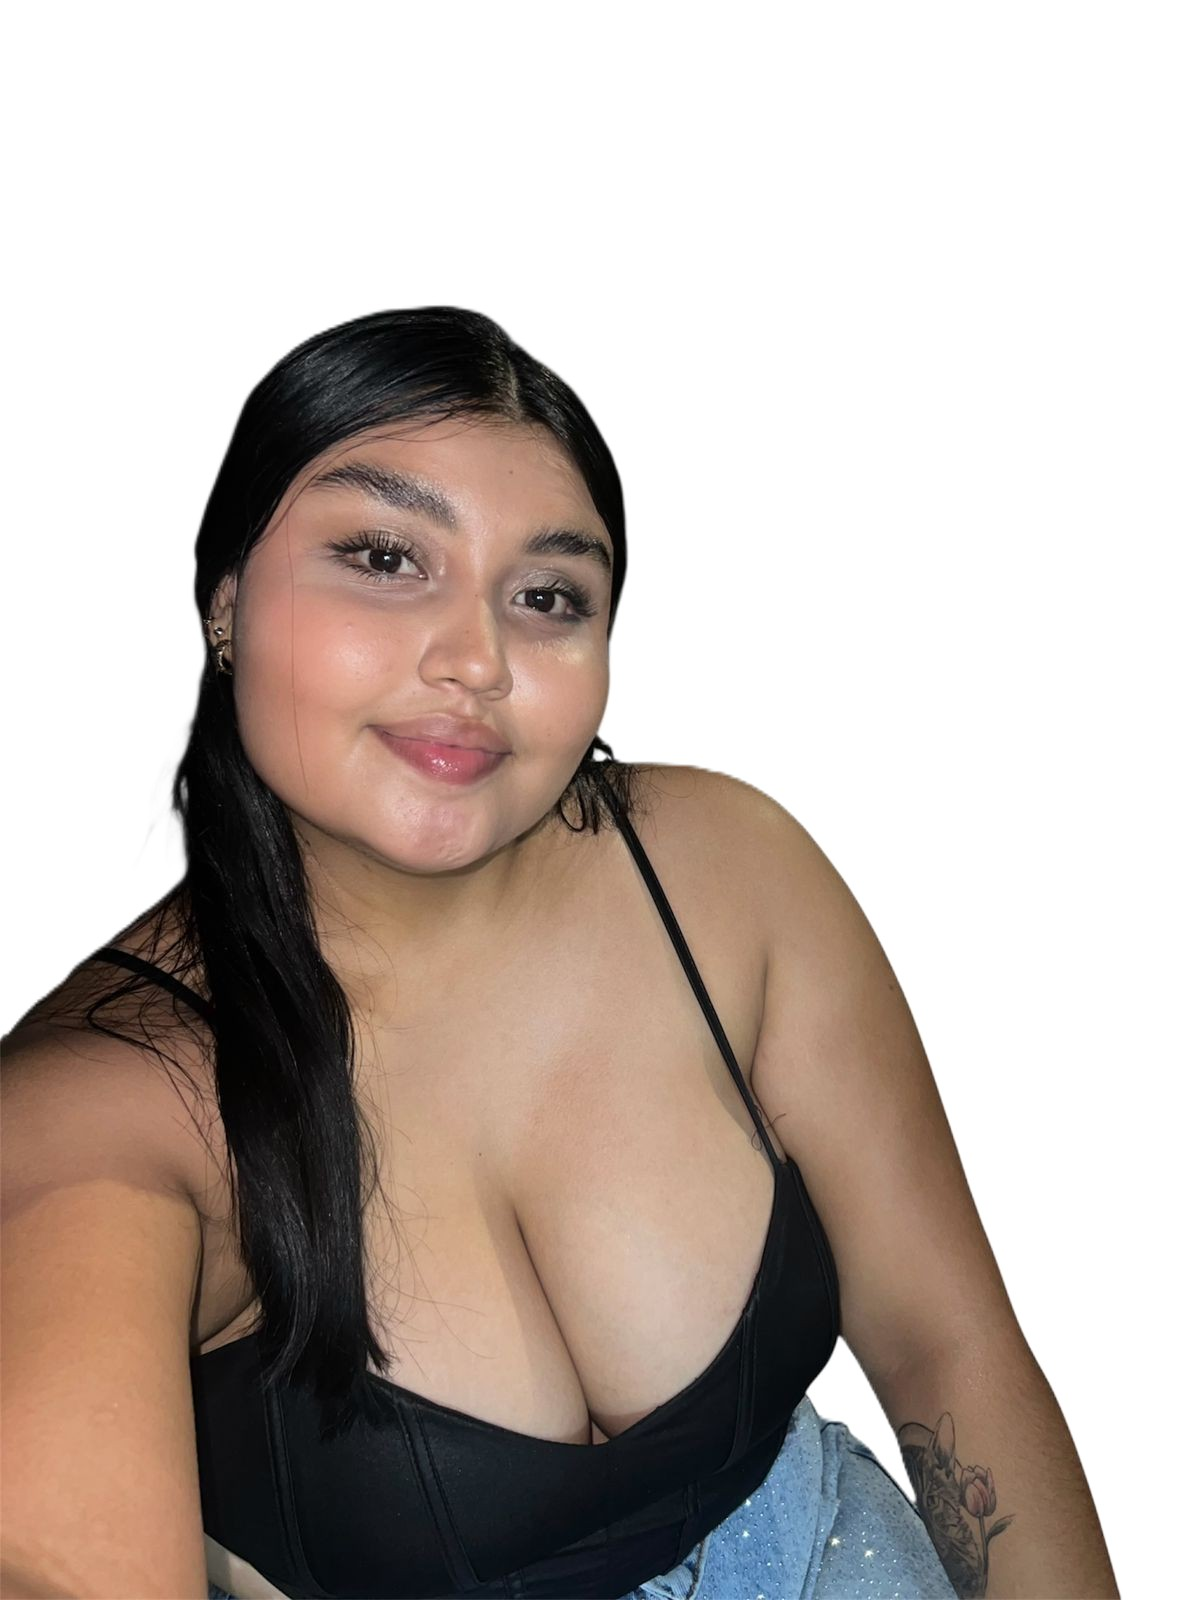
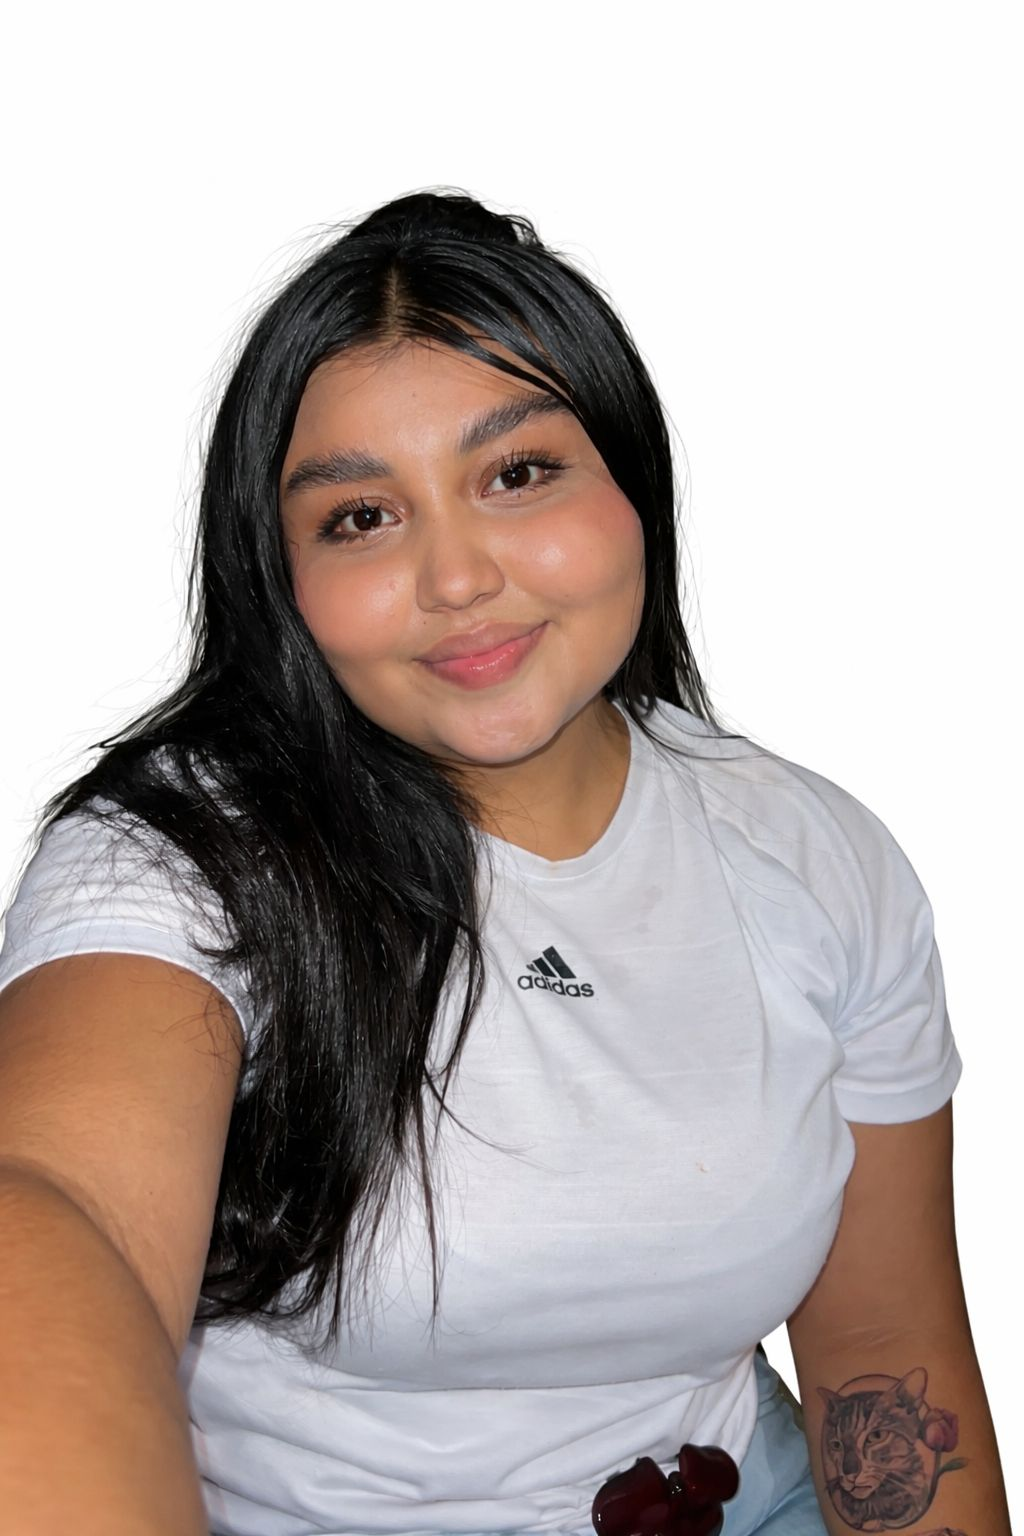
se hace cambio en la imagenes de portafolio

diff --git a/index.html b/index.html
@@ -10,14 +10,14 @@
 <body>
     <header>
         <h1>Mi Portafolio Personal</h1>
-        <p>Bienvenido a mi Portafolio Personal</p>
+        <p>Bienvenido a mi Portafolio Digital.</p>
     </header>
 
     <section id="descripcion">
         <div class="texto">
             <h2>Descripción</h2>
-            <p>Hola, soy Katherine. Mi nombre completo es Wendy Katherine Gualdron Marquez.
-            Soy de Yopal - Casanare. Actualmente tengo 17 años, estudio en el Centro Agroindustrial de Formación Empresarial del Casanare CAFEC, que es parte de las intalaciones del SENA, en donde estoy aprendiendo Análisis y Desarrollo de Software.</p>
+            <p>Hola, soy Katherine. 
+                Mi nombre completo es Wendy Katherine Gualdrón Marquez,soy de Yopal-Casanare,actualmente tengo 17 años, estudio en el Centro Agroindustrial de Formación Empresarial del Casanare CAFEC, que es parte de las intalaciones del SENA, en donde estoy estudiando Análisis y Desarrollo de Software.</p>
         </div>
         <div class="imagen">
             <img src="asset/foto personal.jpeg" alt="Foto de Katherine" width="200">
@@ -28,35 +28,43 @@
         <h2>Conocimientos</h2>
             <p class="lenguaje"><i class="fa-brands fa-html5"></i> HTML</p>
         <div class="barra">
-            <div class="progreso html">80</div>
+            <div class="progreso html">70</div>
         </div>
 
             <p class="lenguaje"><i class="fa-brands fa-css3-alt"></i> CSS</p>
         <div class="barra">
-            <div class="progreso css">70</div>
+            <div class="progreso css">55</div>
         </div>
 
             <p class="lenguaje"><i class="fa-brands fa-js"></i> JavaScript</p>
         <div class="barra">
-            <div class="progreso js">50</div>
+            <div class="progreso js">25</div>
         </div>
     </section>
     <section>
         <h2>Estudios</h2>
         <div class="estudio">
-            <img src="asset/Logo-col.png" alt="Escudo escuela" class="logo">
+            <img src="asset/escudo4.jpg" alt="Escudo escuela" class="logo">
             <div class="info">
-                <h3>Colegio Salvador Camacho Roldán</h3>
-                <h4>2012-2013</h4>
+                <h3>Sena (en curso).</h3>
+                <h4>Tecnologo en Analisis y desarrollo de software.</h4>
             </div>
         </div>
         <div class="estudio">
             <img src="asset/escudo2.jpg" alt="Escudo escuela 2" class="logo">
-            <div class="info"></div>
-                <h3>Carlos Lleras restrepo</h3>
-                <h4>2014-2024</h4>
+            <div class="info">
+                <h3> Bachiller Tecnico.</h3>
+                <h4>Carlos Lleras restrepo.</h4>
             </div>
         </div>
+          </div>
+        <div class="estudio">
+            <img src="asset/escudo3.jpg" alt="Escudo escuela 2" class="logo">
+            <div class="info">
+                <h3>Sena.</h3>
+                <h4>Tecnico en sistema.</h4>
+            </div>
+
     </section>
 
     <section> 
@@ -65,8 +73,8 @@
             <li>Conocer lugares nuevos</li>
             <li>Maquillarme</li>
             <li>Ver películas</li>
-            <li>Ver series</li>
             <li>Leer</li>
+            <li>Manejar moto</li>
         </ul>
     </section>
 
@@ -74,7 +82,7 @@
         <h2>Sueños</h2>
         <p>
             Mi sueño es convertirme en una gran profesional y cumplir todas mis metas.
-            En lo personal, tener una vida laboral estable y un buen trabajo, tener una buena estabilidad económica, la casa de mis sueños, el auto que quiero, y seguir aprendiendo sin miedo a equivocarme.
+            En lo personal, tener una vida laboral estable y un buen trabajo, tener una buena estabilidad económica, lograr tener la casa de mis sueños, el auto que quiero, y seguir aprendiendo sin miedo a equivocarme.
         </p>
     </section>
 

diff --git a/styles.css b/styles.css
@@ -27,7 +27,7 @@ section {
 }
 
 h2 {
-    color: #ff63dd;
+    color: #f886df;
     border-bottom: 2px solid #eee;
     padding-bottom: 5px;
 }
@@ -79,10 +79,10 @@ h2 {
 }
 
 .imagen img {
-    width: 220px;
+    width: 225px;
     object-fit: cover;
-    border-radius: 10%;
-    border: 5px solid white;
+    border-radius: 5%;
+    border: 5px solid rgb(235, 206, 206);
 }
 
 
@@ -102,8 +102,8 @@ video {
 
 button {
     display: block;
-    margin: 15px auto;
-    padding: 10px 20px;
+    margin: 10px auto;
+    padding: 5px 20px;
     background-color: #6c63ff;
     color: white;
     border: none;
